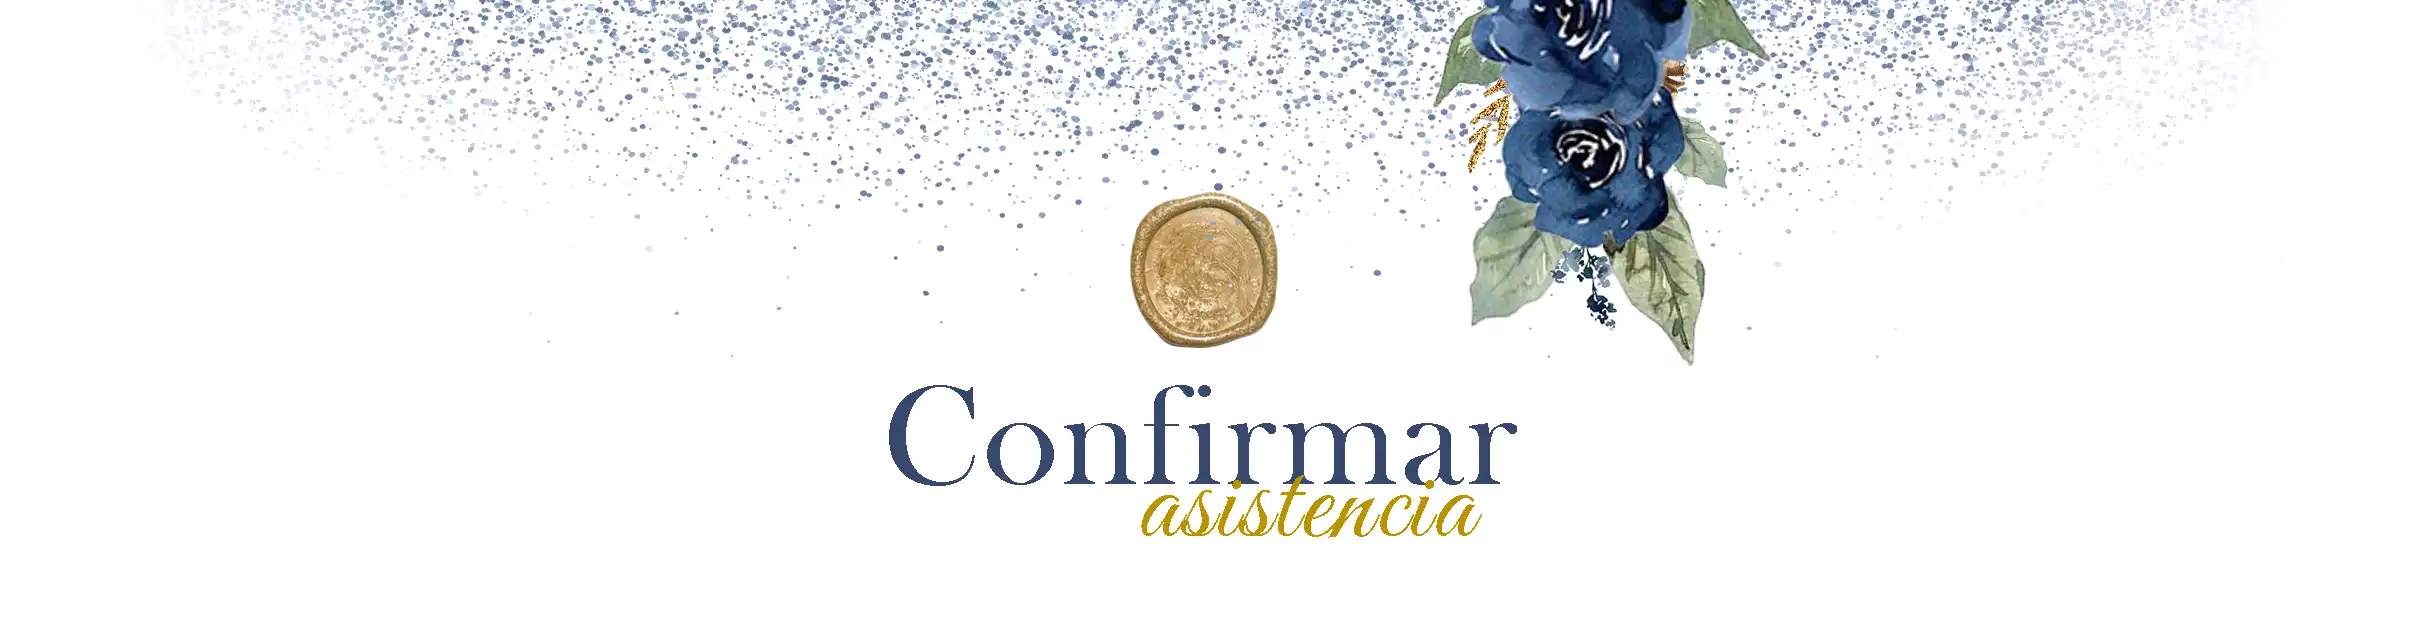
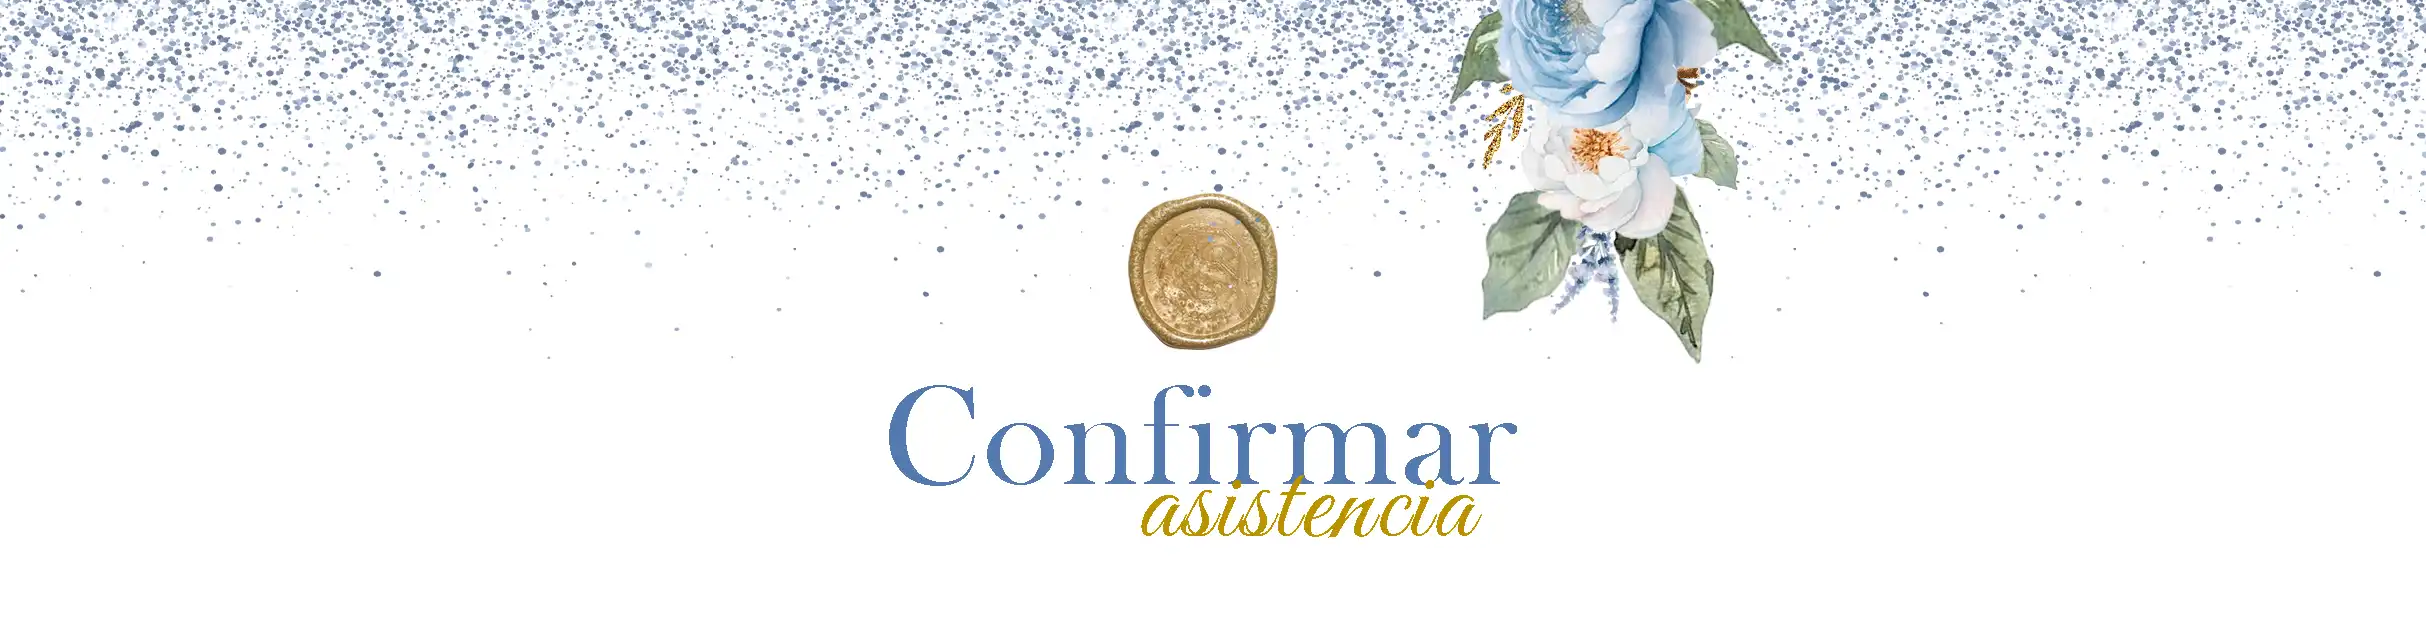
..

diff --git a/Victoria/libro-recuerdos/index.html b/Victoria/libro-recuerdos/index.html
@@ -98,7 +98,7 @@ input {
 <div id="contenedor"></div>
 
 <script>
-const sheetID = "16cK3iYCFt0DSQXnpNAbnVfiwlHL5uX6xle4rBnnVJTo";
+const sheetID = "1jUCm6TiFUX1Urvy8QCDV3K4ZNX5YmGC6hTyXXyJ2PQs";
 const url = `https://opensheet.elk.sh/${sheetID}/Respuestas%20de%20formulario%201`;
 
 let todasLasRespuestas = [];

diff --git a/Victoria/invitados/index.html b/Victoria/invitados/index.html
@@ -160,7 +160,7 @@
 <div id="contenedor"></div>
 
 <script>
-const sheetID = "1xSHbML6FhNQKyfKaiNOFj-zOTujLbwYoLG0R4MwqjT4";
+const sheetID = "1Zc1TCoYfoUhHKTAE6Vdl4ugJ7iFpq6qd7q-f8V6_9uc";
 const url = `https://opensheet.elk.sh/${sheetID}/Respuestas%20de%20formulario%201`;
 
 let todasLasRespuestas = [];
